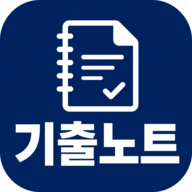
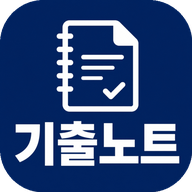
feat(pwa): Service Worker 추가 + 아이콘 모서리 투명 처리
기존엔 SW 부재로 Chrome이 우리 사이트를 PWA로 인식 못해
beforeinstallprompt 이벤트가 발생하지 않았음. 결과적으로
"홈 화면에 추가" 버튼이 fallback 모달로만 빠지고, 사용자가 안내 따라
추가하면 일반 북마크 단축아이콘(회색 G fallback)으로 만들어짐.

또 기존 아이콘은 모서리 alpha=255 (사각형)이라 PC 데스크탑에서
둥근 처리 없이 사각 박스로 표시되던 문제도 함께 수정.

- web/public/sw.js: minimal Service Worker (정적 자원 SWR 캐싱)
- layout.tsx: inline 스크립트로 register
- icon-192/512: PIL로 22.5% radius 라운드 + corner alpha=0
- apple-touch-icon: 풀블리드 유지 (iOS Safari가 자체 라운드)
- icon-maskable-512: 별도 풀블리드 (Android adaptive 런처용)
- manifest.json: maskable purpose 등록

이제 Android Chrome에서 진짜 PWA install 다이얼로그가 뜨고
설치 후 매니페스트 아이콘이 정상 표시됨.

diff --git a/web/public/sw.js b/web/public/sw.js
@@ -1,0 +1,37 @@
+const CACHE = "gcnote-v1";
+
+self.addEventListener("install", (e) => {
+  self.skipWaiting();
+});
+
+self.addEventListener("activate", (e) => {
+  e.waitUntil(
+    (async () => {
+      const keys = await caches.keys();
+      await Promise.all(keys.filter((k) => k !== CACHE).map((k) => caches.delete(k)));
+      await self.clients.claim();
+    })()
+  );
+});
+
+self.addEventListener("fetch", (e) => {
+  const req = e.request;
+  if (req.method !== "GET") return;
+  const url = new URL(req.url);
+  if (url.origin !== self.location.origin) return;
+  if (!/\.(png|jpe?g|webp|svg|ico|woff2?)$/i.test(url.pathname)) return;
+
+  e.respondWith(
+    caches.open(CACHE).then(async (cache) => {
+      const cached = await cache.match(req);
+      if (cached) return cached;
+      try {
+        const res = await fetch(req);
+        if (res.ok) cache.put(req, res.clone());
+        return res;
+      } catch {
+        return cached || Response.error();
+      }
+    })
+  );
+});

diff --git a/web/app/layout.tsx b/web/app/layout.tsx
@@ -136,6 +136,12 @@ export default function RootLayout({
             __html: `window.addEventListener('load',function(){if(window.Kakao&&!window.Kakao.isInitialized()){window.Kakao.init('${process.env.NEXT_PUBLIC_KAKAO_JS_KEY || ""}');}});`,
           }}
         />
+        {/* PWA Service Worker — Chrome installability 충족 + 정적 자원 캐싱 */}
+        <script
+          dangerouslySetInnerHTML={{
+            __html: `if('serviceWorker' in navigator){window.addEventListener('load',function(){navigator.serviceWorker.register('/sw.js').catch(function(){});});}`,
+          }}
+        />
       </head>
       <body className="antialiased">
         <div className="flex min-h-screen flex-col">

diff --git a/CLAUDE.md b/CLAUDE.md
@@ -211,6 +211,8 @@ korea_history/
 - **적응형 타이포그래피**: hero h1 5단계 (`38/sm:48/md:56/lg:68/xl:84`) + `wordBreak: keep-all` + 각 line `inline-block; whiteSpace: nowrap`. Stats/H2/Pricing 모두 sm/lg breakpoint 추가 (태블릿 영역 부드럽게)
 - **Header 모바일 폭**: `gap-8 → gap-2 sm:gap-6 md:gap-8` + `px-6 → px-4 sm:px-6 md:px-8` + 햄버거 `ml-1.5` 제거 (헤더 install pill 들어갈 공간 확보)
 - **PWA install funnel analytics (2026-05-06)**: 6종 GA4 이벤트 (`pwa_install_clicked`/`_modal_opened`/`_accepted`/`_dismissed`/`_already_installed_dismissed`/`pwa_app_installed`) — `trackPWA(event, params)` 헬퍼가 window.gtag 호출. params: `env` (android/ios/inapp/desktop) + `variant` (desktop/mobile). 저작도구 분석에 PWAEventsCard로 4-step 퍼널 + Android·전체 전환율 + 환경별 분포 노출. 상세 [memory/pwa_install_funnel_analytics.md]
+- **Service Worker + 설치 가능 PWA (2026-05-08)**: 기존엔 SW 부재로 Chrome이 PWA로 인식 못 해 `beforeinstallprompt` 미발생 → "홈 화면에 추가"가 일반 북마크 단축아이콘으로 만들어져 회색 G fallback 아이콘 표시되던 이슈. `web/public/sw.js` 추가 (skipWaiting + clients.claim + 정적 자원 stale-while-revalidate 캐싱) + layout.tsx inline 스크립트로 register. 이제 Android Chrome에서 진짜 PWA install 다이얼로그 + 진짜 매니페스트 아이콘 표시.
+- **아이콘 재생성 (2026-05-08)**: 기존 icon-192/512 모서리 alpha=255 (square)였던 문제 → PIL `rounded_rectangle` 마스크로 radius 22.5% (iOS 스타일) 적용 + corner alpha=0. PC 데스크탑/Windows 시작메뉴/태스크바에서 깔끔한 둥근 아이콘. apple-touch-icon은 풀블리드 유지 (iOS Safari가 자체 라운드). Android adaptive 런처용 `icon-maskable-512.png` 별도 추가 — manifest icons에 `purpose: "maskable"` 등록.
 
 ### 빌드 최적화 — Phase 2 ISR (2026-05-05)
 다중 시험 플랫폼으로 547 ExamType + 1,900 한능검 OG 이미지가 모두 SSG였던 부담을 ISR/dynamic으로 분산. ~2,447 prerender 페이지 절감 → Vercel 빌드 시간 12~40분 추정 절감.